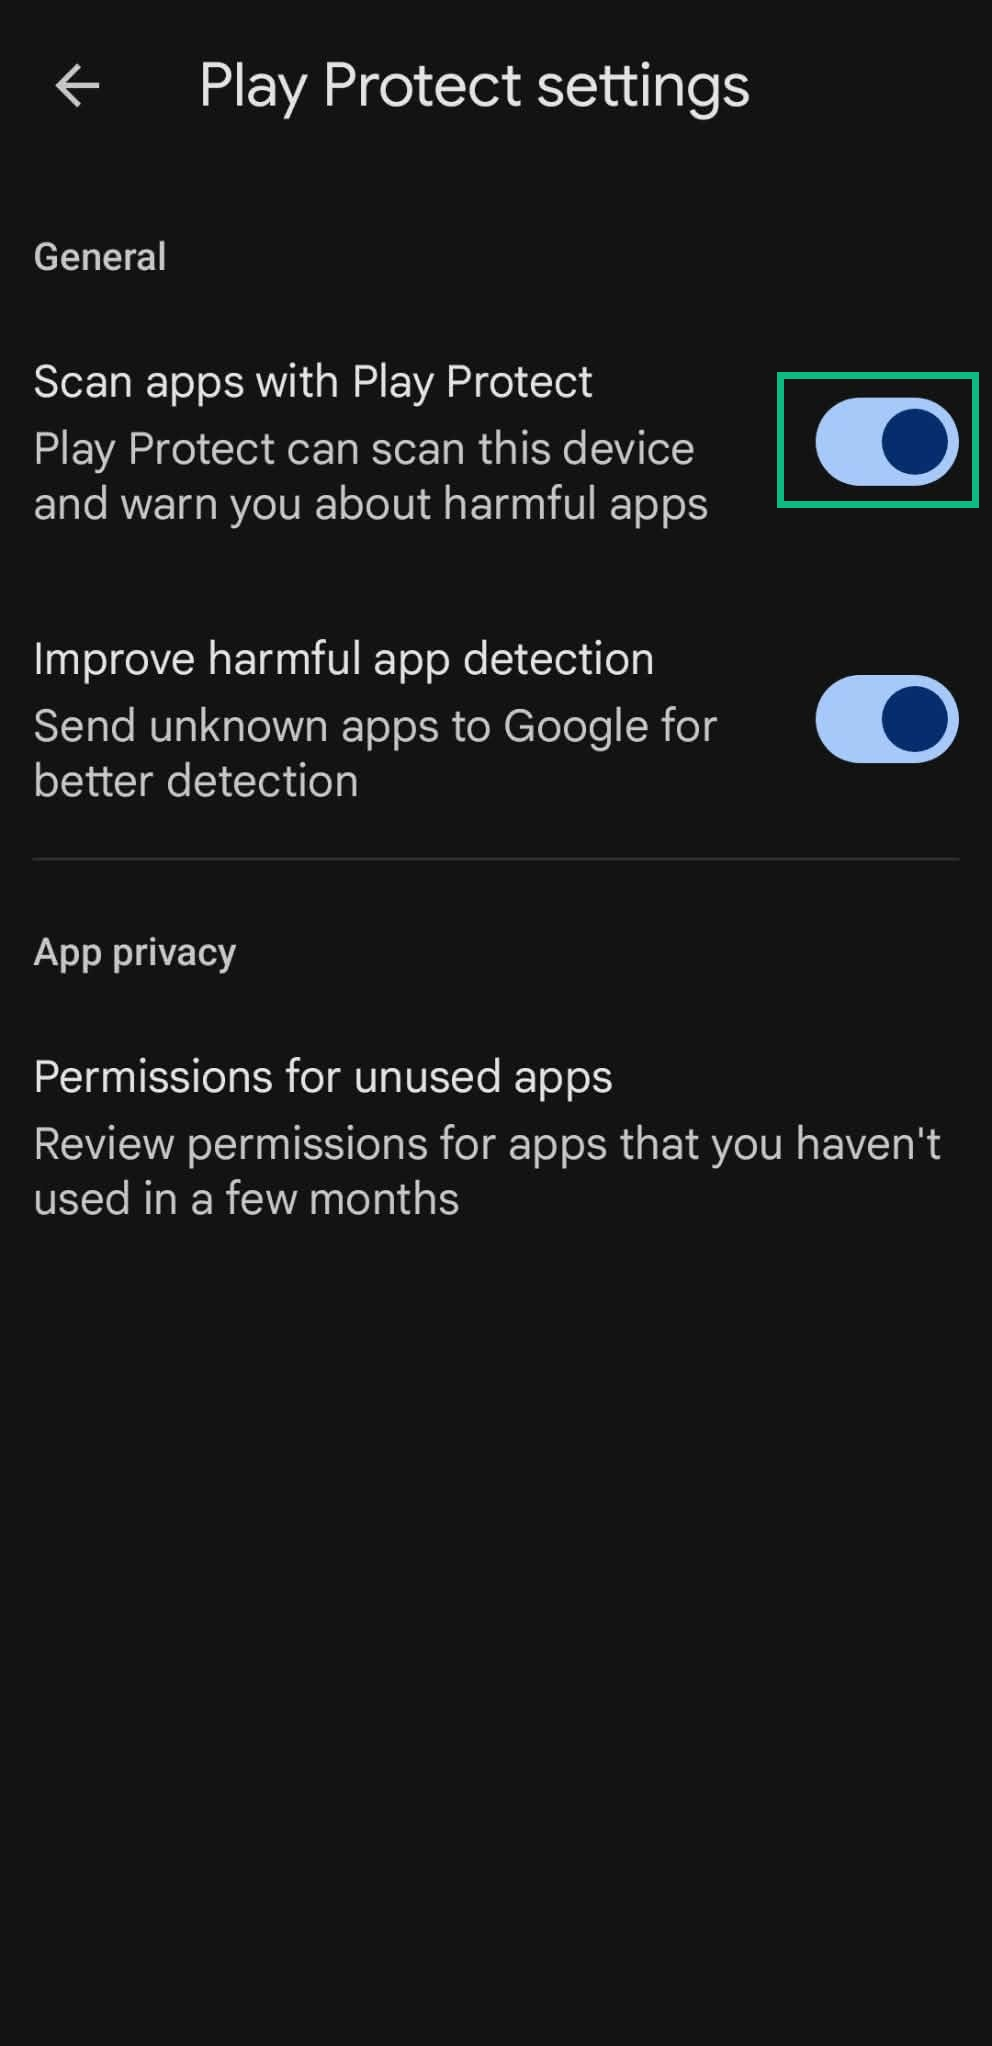
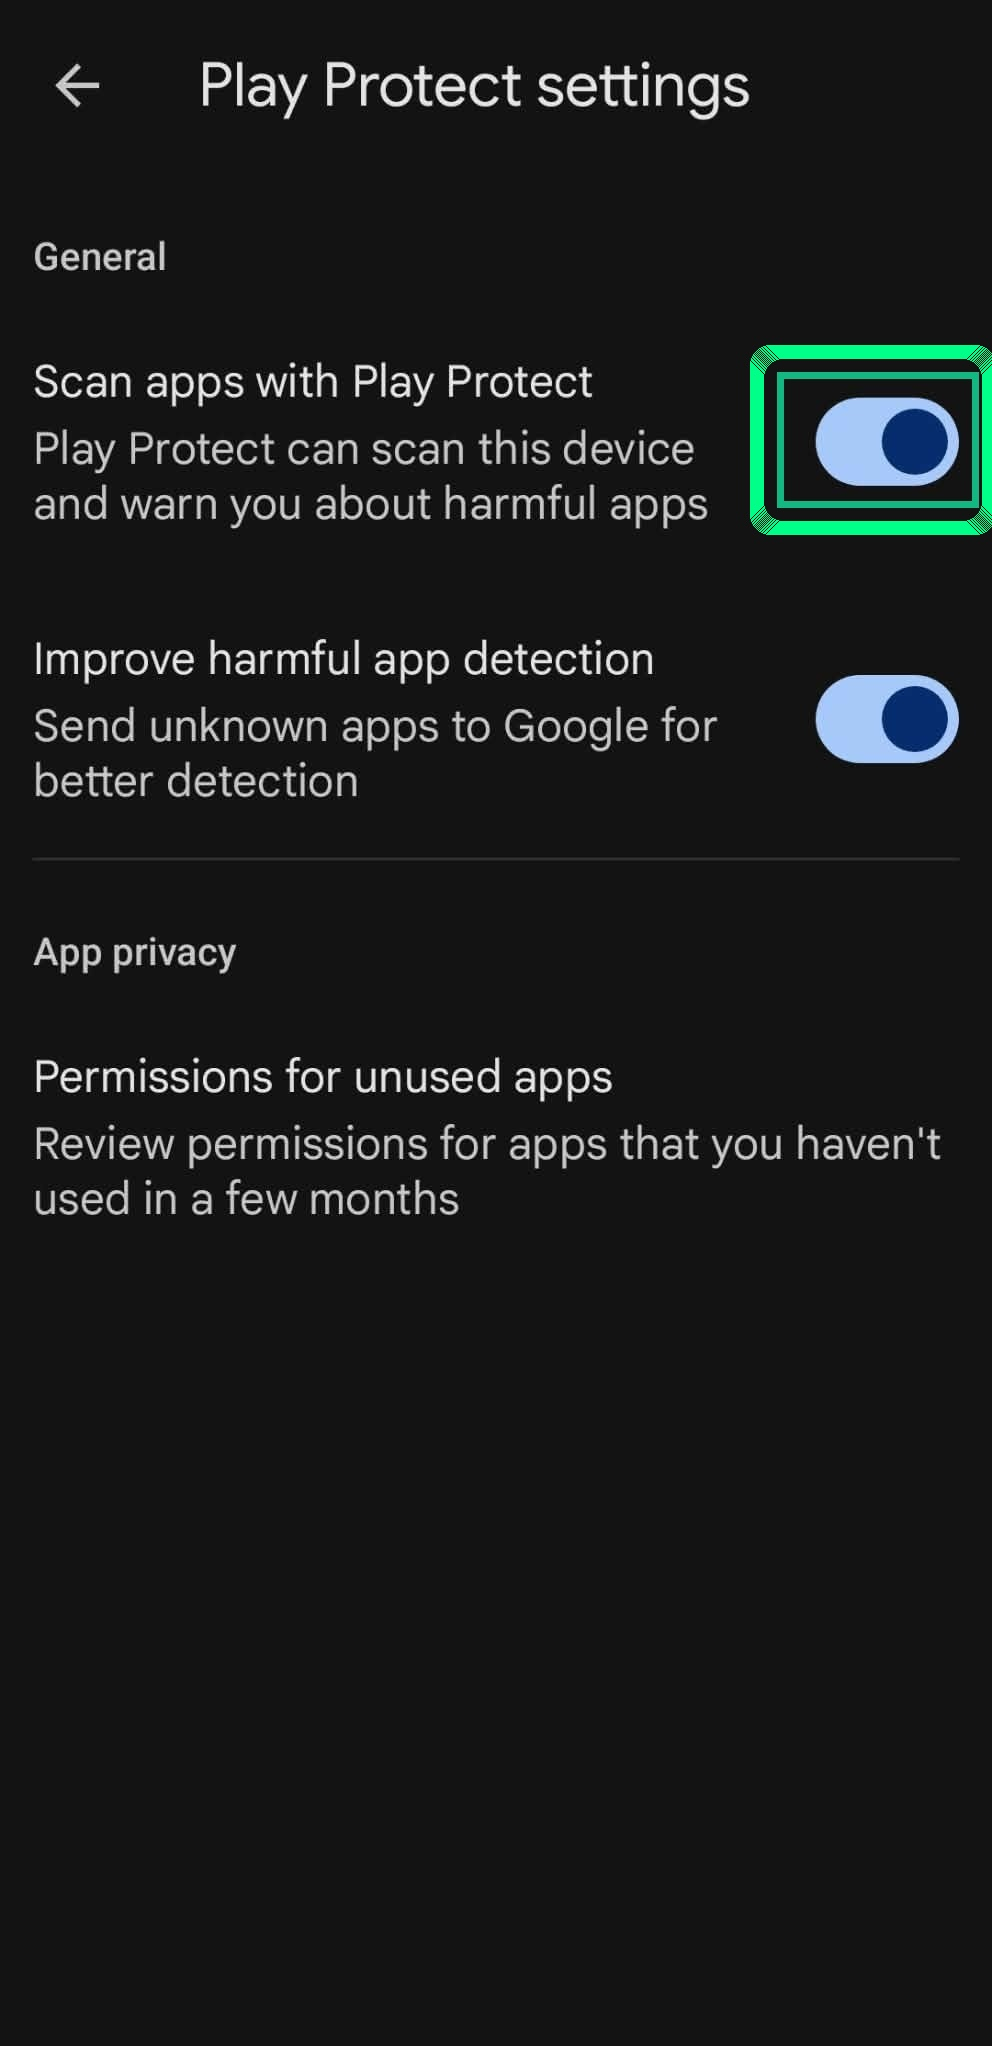
fix(guide): draw vibrant highlight box around Play Protect toggle and update image reference

Changed region(s): [[0.75, 0.154, 1.0, 0.2771]]

diff --git a/src/app/download/guide/page.tsx b/src/app/download/guide/page.tsx
@@ -113,7 +113,7 @@ const STEPS: GuideStep[] = [
       "Bumalik sa inyong Downloads folder at pindutin muli ang rescom-alert-v1.3.0.apk.",
       'Pindutin ang "Install" — magtutuloy na ang pag-install nang walang harang!',
     ],
-    imageSrc: "/installation-guide/Step7.jpg",
+    imageSrc: "/installation-guide/Step_PlayProtect_Toggle.jpg",
     imageAlt: "Step 7: Turn off or pause Play Protect app scanning",
     badgeText: "BYPASS COMPLETE",
   },

diff --git a/scripts/draw_play_protect_box.py b/scripts/draw_play_protect_box.py
@@ -1,0 +1,24 @@
+from PIL import Image, ImageDraw
+
+# Open Step7.jpg
+img = Image.open('public/installation-guide/Step7.jpg').convert('RGB')
+w, h = img.size
+
+# High-contrast bold drawing
+draw = ImageDraw.Draw(img)
+
+# 1. Broad bounding box covering the entire row and toggle
+# Left starts around 77% of width, top 17.5%, right 99%, bottom 25.5%
+x1 = int(w * 0.77)
+y1 = int(h * 0.175)
+x2 = int(w * 0.99)
+y2 = int(h * 0.255)
+
+# Draw thick border (14 pixels wide) with bright vibrant emerald
+for i in range(14):
+    draw.rounded_rectangle((x1 - i, y1 - i, x2 + i, y2 + i), radius=20, outline="#00FF88")
+
+# Save as Step_PlayProtect_Toggle.jpg to completely avoid browser cache
+img.save('public/installation-guide/Step_PlayProtect_Toggle.jpg', 'JPEG', quality=95)
+img.save('public/installation-guide/Step7.jpg', 'JPEG', quality=95)
+print("Saved Step_PlayProtect_Toggle.jpg and Step7.jpg with high-contrast box!")
